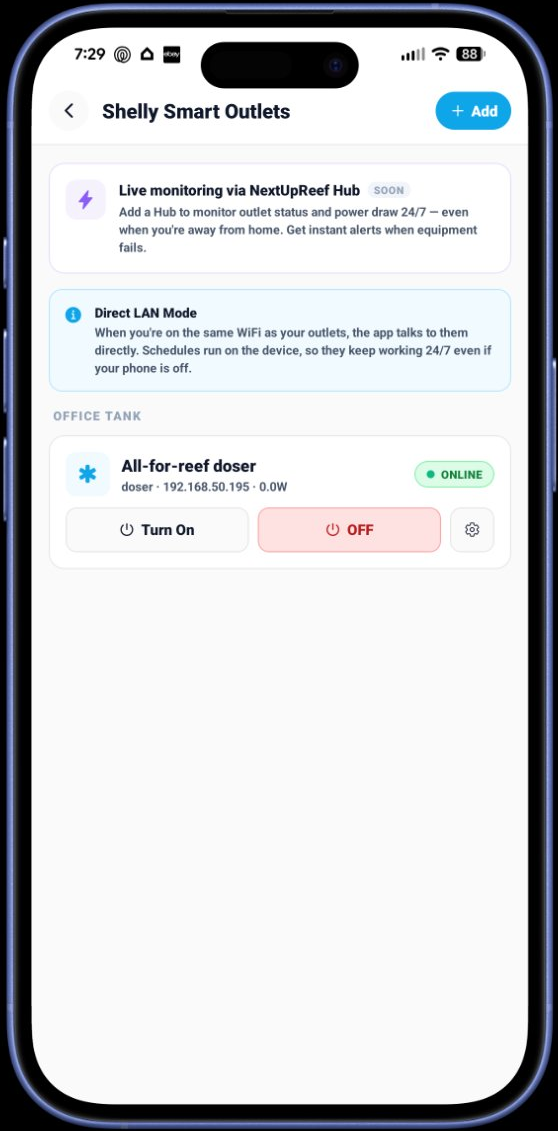
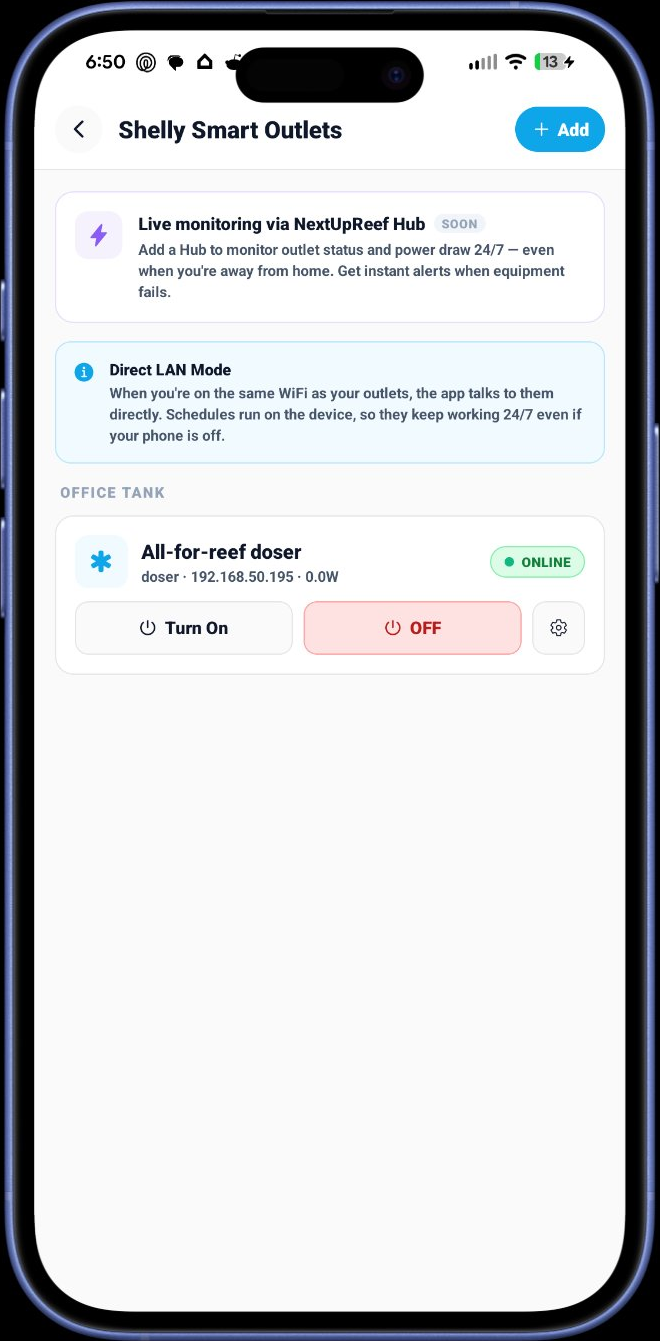
Tighten mobile spacing, remove Apex from AI section

diff --git a/app/globals.css b/app/globals.css
@@ -1073,3 +1073,29 @@ h1, h2, h3, h4 {
   width: auto !important;
   max-width: 100% !important;
 }
+
+/* Tighter mobile section spacing */
+@media (max-width: 900px) {
+  .feature-spotlight,
+  .feature-spotlight.reverse {
+    padding: 48px 20px !important;
+    gap: 32px !important;
+  }
+  .phone-trio-section {
+    padding: 48px 20px !important;
+  }
+}
+@media (max-width: 600px) {
+  .feature-spotlight,
+  .feature-spotlight.reverse {
+    padding: 36px 16px !important;
+    gap: 24px !important;
+  }
+  .phone-trio-section {
+    padding: 36px 16px !important;
+  }
+  section {
+    padding-top: 48px !important;
+    padding-bottom: 48px !important;
+  }
+}

diff --git a/app/page.tsx b/app/page.tsx
@@ -175,7 +175,6 @@ export default function HomePage() {
                 { title: "Reef AI Advisor", desc: "Full tank analysis every 24 hours. Tells you what to fix, what's working, and what to watch." },
                 { title: "Ask Reef AI", desc: "Chat with AI that has full context. Why is my alk dropping? gets a real answer, not a Google search." },
                 { title: "AI Photo Logging", desc: "Point your camera at any test kit. AI reads the values and logs them for you." },
-                { title: "Neptune Apex Integration", desc: "Connect your Apex controller and sync parameters automatically. No manual entry needed." },
               ].map((f) => (
                 <div key={f.title} style={{ display: "flex", gap: "14px", alignItems: "flex-start" }}>
                   <div style={{ width: 8, height: 8, borderRadius: "50%", background: "var(--reef)", flexShrink: 0, marginTop: "7px" }} />